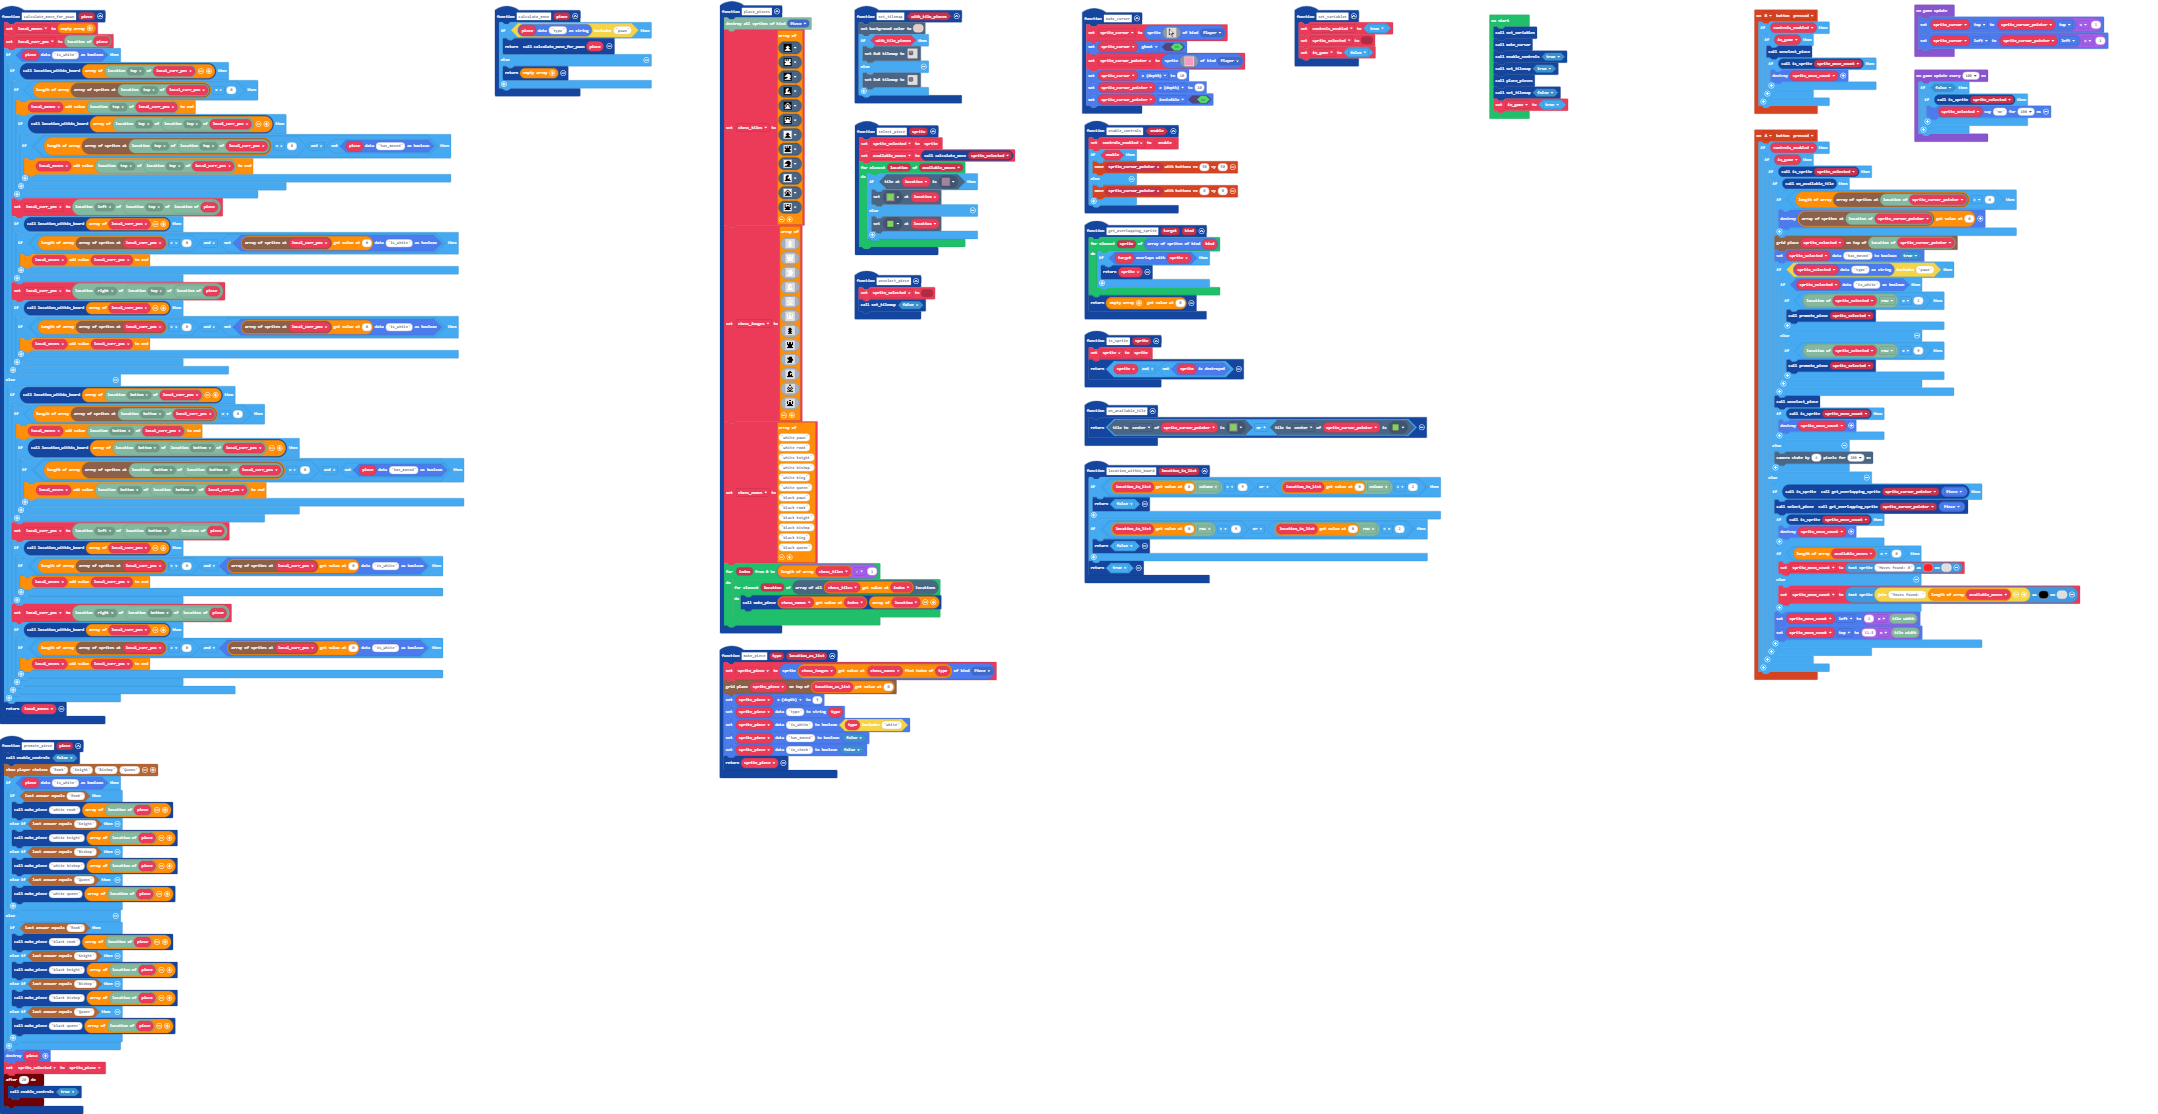
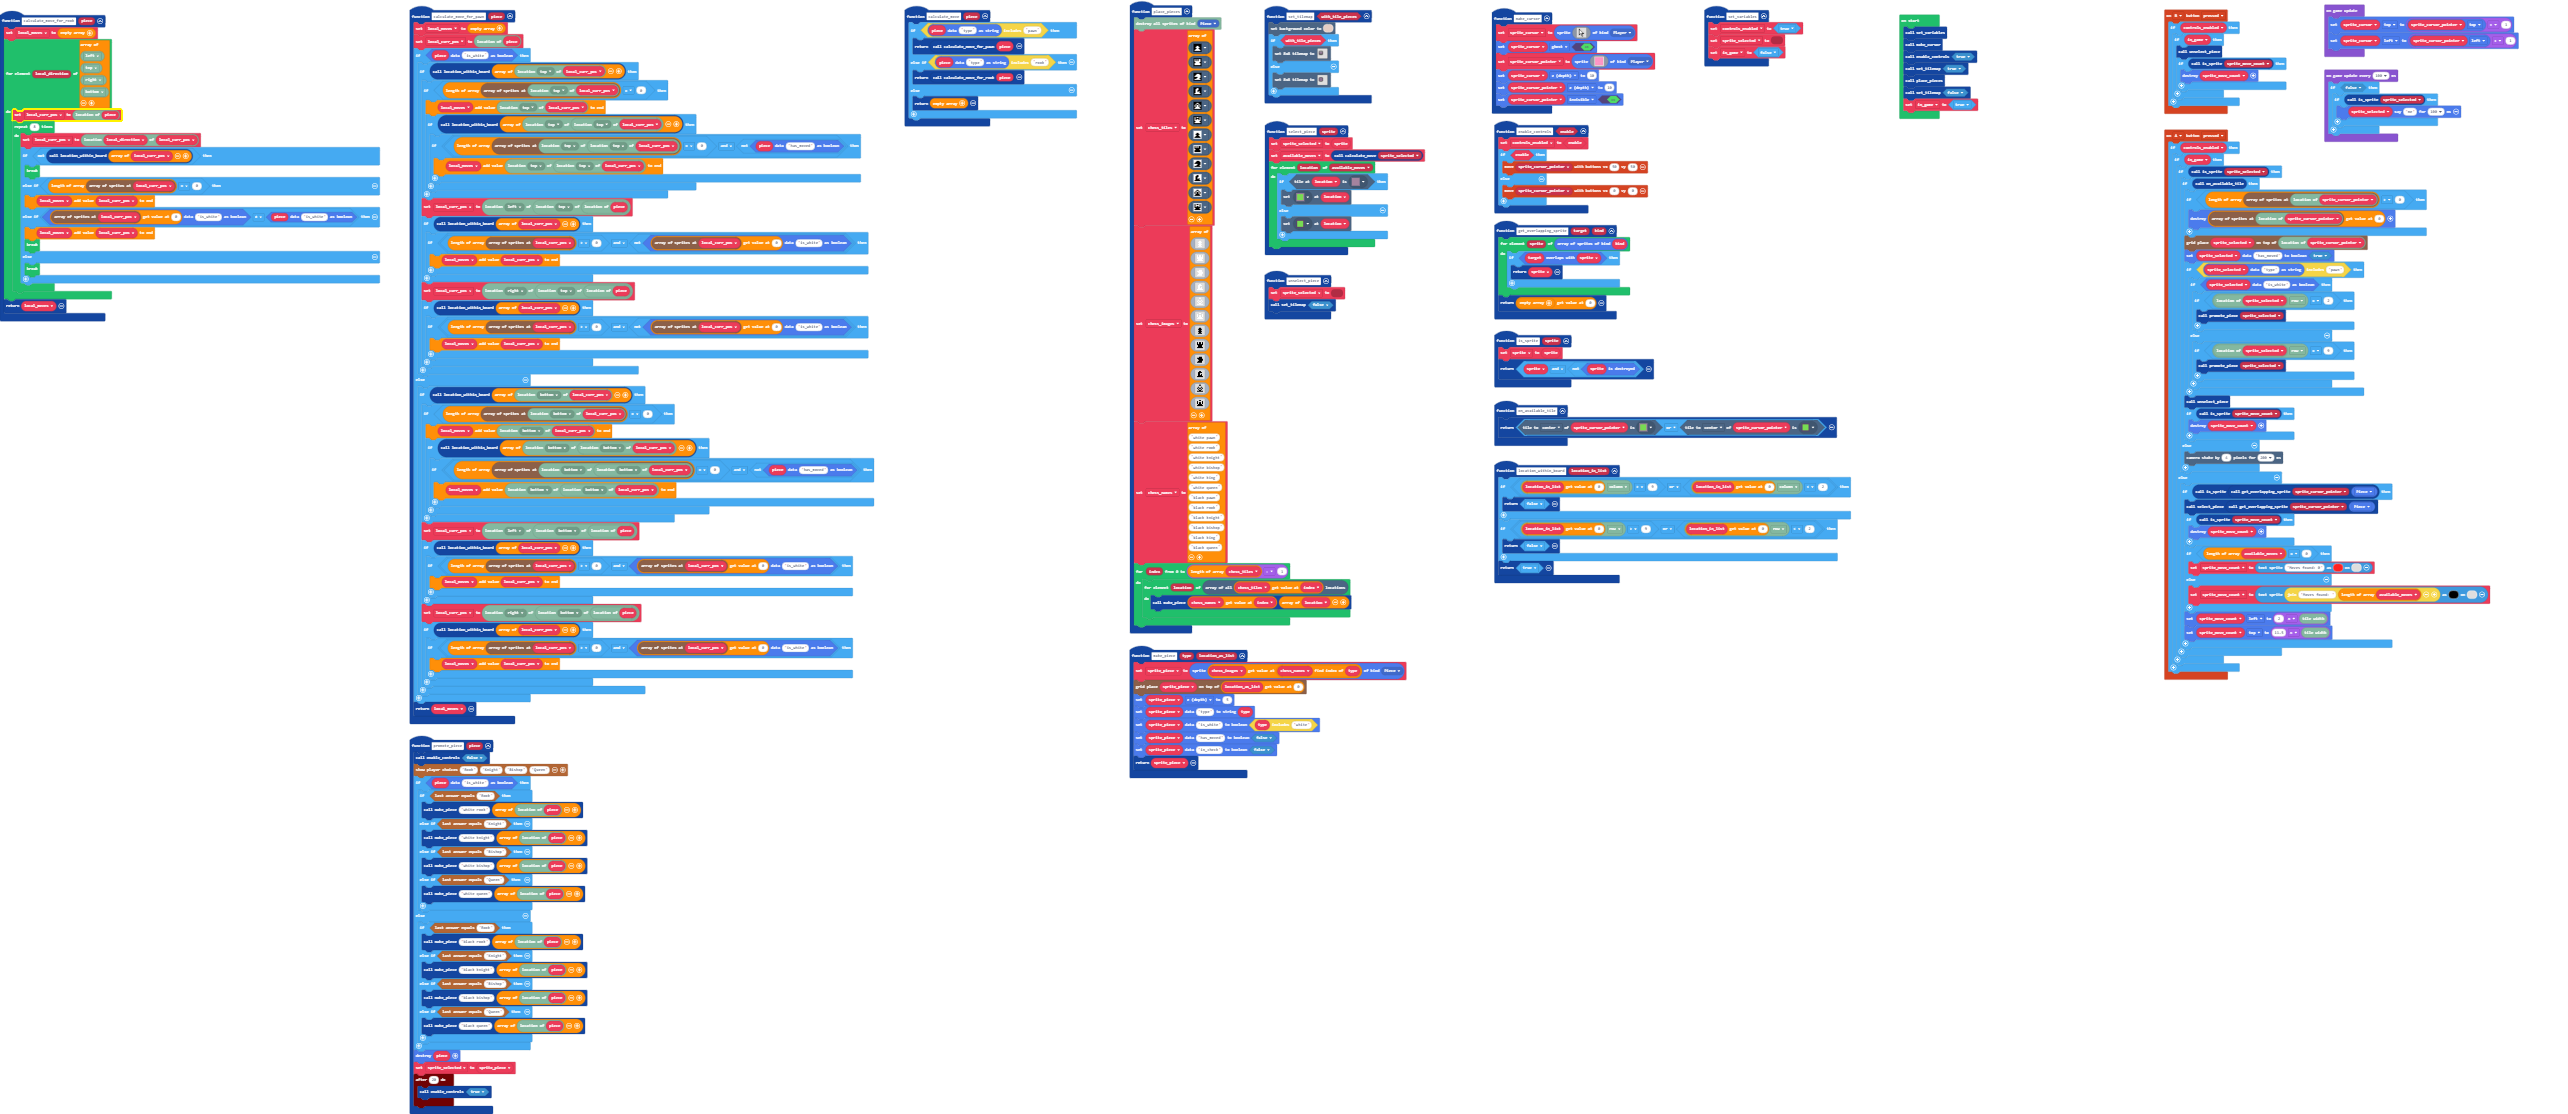
Can move rooks

diff --git a/main.ts b/main.ts
@@ -247,9 +247,36 @@ function calculate_move_for_pawn (piece: Sprite) {
 function calculate_move (piece: Sprite) {
     if (sprites.readDataString(piece, "type").includes("pawn")) {
         return calculate_move_for_pawn(piece)
+    } else if (sprites.readDataString(piece, "type").includes("rook")) {
+        return calculate_move_for_rook(piece)
     } else {
         return []
     }
+}
+function calculate_move_for_rook (piece: Sprite) {
+    local_moves = []
+    for (let local_direction of [
+    CollisionDirection.Left,
+    CollisionDirection.Top,
+    CollisionDirection.Right,
+    CollisionDirection.Bottom
+    ]) {
+        local_curr_pos = tiles.locationOfSprite(piece)
+        for (let index = 0; index < 8; index++) {
+            local_curr_pos = tiles.locationInDirection(local_curr_pos, local_direction)
+            if (!(location_within_board([local_curr_pos]))) {
+                break;
+            } else if (grid.getSprites(local_curr_pos).length == 0) {
+                local_moves.push(local_curr_pos)
+            } else if (sprites.readDataBoolean(grid.getSprites(local_curr_pos)[0], "is_white") != sprites.readDataBoolean(piece, "is_white")) {
+                local_moves.push(local_curr_pos)
+                break;
+            } else {
+                break;
+            }
+        }
+    }
+    return local_moves
 }
 function select_piece (sprite: Sprite) {
     sprite_selected = sprite
